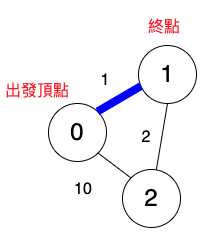
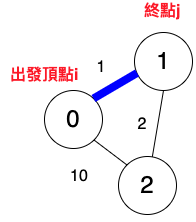
java floyd 解釋修正

diff --git a/_pages/dataStruct/floyd.md b/_pages/dataStruct/floyd.md
@@ -3,37 +3,34 @@ title: Floyd
 date: 2025-08-15
 keywords: java, Floyd
 ---
-比較i → j的距離，與i → k → j的距離，誰比較短？
+比較出發頂點i → 終點j的距離，與出發頂點i → 中間頂點k → 終點j的距離，誰比較短？
 
-k是一個中間頂點，而i → j是一個直達，不經過k這個中間頂點的路徑。
+k是一個中間頂點。
 
-但如果i → k → j更短呢？
-
-下圖中，0 → 2的距離為10，0 → 1 → 2的距離為3，很明顯0 → 1 → 2的距離更短。
+下圖中，出發頂點0 → 終點2的距離為10，出發頂點0 → 中間頂點1 → 終點2的距離為3，很明顯0 → 1 → 2的距離更短。
 
 ![img]({{site.imgurl}}/java_datastruct/floyd1.png)
 
-preVertex表格是記錄路徑的。<br>
 row列是i，column欄是j。<br>
 
-|   |j=0|j=1|j=2|
+|出發\\終點|j=0|j=1|j=2|
 |i=0|0|0|0|
 |i=1|1|1|1|
 |i=2|2|2|2|
 
-i為頂點0，j為頂點1，從頂點0 → 頂點1，i為出發頂點，j為終點。<br>
+出發頂點i為0，終點j為1。<br>
 
 ![img]({{site.imgurl}}/java_datastruct/floyd_path1.png)
 
-頂點1的前一個頂點為頂點0。<br>
+終點j為1的前一個為頂點0。<br>
 
 ![img]({{site.imgurl}}/java_datastruct/floyd_path2.png)<br>
 
-i為0，j為2，就是從頂點0 → 頂點2，i為出發頂點，j為終點。<br>
+出發頂點i為0，終點j為2。<br>
 
 ![img]({{site.imgurl}}/java_datastruct/floyd_path3.png)<br>
 
-頂點2的前一個頂點為頂點0。<br>
+終點j為2的前一個為頂點0。<br>
 
 ![img]({{site.imgurl}}/java_datastruct/floyd_path4.png)<br>
 
@@ -57,6 +54,47 @@ matrix表格是記錄各個頂點間距離，如下:<br>
 其中，對角線為0，代表0 → 0，頂點0到頂點0，是0距離。<br>
 1 → 1，頂點1到頂點1，是0距離。<br>
 2 → 2，頂點2到頂點2，是0距離。<br>
+
+## preVertex表格
+preVertex表格記錄終點j的前一個頂點。<br>
+
+出發頂點i → 終點j，比出發頂點i → 中間頂點k → 終點j，距離更長。<br>
+
+出發頂點i → 中間頂點k → 終點j，距離更短的話，要記錄終點j的前一個頂點是誰。<br>
+
+若是出發頂點i → 終點j距離更短，終點j的前一個為出發頂點。<br>
+
+![img]({{site.imgurl}}/java_datastruct/floyd_path2.png)<br>
+
+若出發頂點i → 中間頂點k → 終點j，距離更短，終點j的前一個頂點為中間頂點k。<br>
+
+![img]({{site.imgurl}}/java_datastruct/floyd_pre1.png)
+
+預設終點j的前一個頂點是出發頂點i。<br>
+
+以下是記錄出發頂點i → 終點j，終點j的前一個頂點是誰。<br>
+
+|出發\\終點|j=0|j=1|j=2|
+|i=0|0|0|0|
+|i=1|1|1|1|
+|i=2|2|2|2|
+
+現在要找中間頂點k → 終點j，終點j的前一個頂點是誰。<br>
+
+所以把表格重新定義如下:<br>
+
+|中間頂點\\終點|j=0|j=1|j=2|
+|k=0|0|0|0|
+|k=1|1|1|1|
+|k=2|2|2|2|
+
+下圖中，中間頂點k為1 → 終點j為2，對映上表(k=1,j=2)，(1,2) = 1，終點j的前一個頂點是1。
+
+![img]({{site.imgurl}}/java_datastruct/floyd_pre1.png)
+
+接著把中間頂點k → 終點j的前一個頂點，存到preVetex表格(i,j)位置，記錄出發頂點i → 終點j，終點j的前一個頂點是1。
+
+推導路徑的時候，就可以pretex(i,j)找到終點j的前一個頂點是誰。
 
 ## 中間頂點k為0
 當出發頂點i是0，當中間頂點k是0，對映j=0,1,2。<br>
@@ -126,32 +164,37 @@ matrix表格是記錄各個頂點間距離，如下:<br>
 
 0→1→2 = 1 + 2 相加距離為3，比0→2的距離10更短，更新matrix表格與preVertex表格。
 
-更新後的表格如下
+#### 更新matrix表格
 
 |matrix|j=0|j=1|j=2|
 |i=0|0|1|<span class="markline">3</span>|
 |i=1|1|0|2|
 |i=2|10|2|0|
 
-preVertex的更新，只在乎「中間頂點」到「終點」的「前一個頂點」，也就是k中間頂點→j終點，先根據下表找出(k=1,j=2)，`[1,2] = 1`，1是前一個頂點。
+#### 更新preVertex表格
+preVertex是記錄每一個終點j的前一個頂點是誰？若是直達的話，預設是出發頂點i。<br>
+
+preVertex的更新，只在乎「中間頂點k」到「終點j」，終點j的「前一個頂點」是誰？根據下表找出(k=1,j=2)，`[1,2] = 1`，1是終點j的前一個頂點。
+
+|中間\\終點|j=0|j=1|j=2|
+|k=0|0|0|0|
+|k=1|1|1|<span class="markline">1</span>|
+|k=2|2|2|2|
+
+接著把出發頂點i → 終點j的「前一個頂點」，更新成k中間頂點 → j終點, 終點j的「前一個頂點」，剛才找到的結果為1，是終點j前一個頂點。<br>
+
+(i=0,j=2)，更新為1，也就是從0 → 2，終點2的前一個頂點是1，而不是原來的0，因為從0→1→2，距離為3，從中間頂點1到終點2，終點2的前一個頂點是1，距離會更短。
 
 |出發\\終點|j=0|j=1|j=2|
-|i=0|0|0|0|
-|i=1|1|1|<span class="markline">1</span>|
-|i=2|2|2|2|
-
-接著把出發頂點i→終點j的「前一個頂點」，更新成k中間頂點→j終點的「前一個頂點」，剛才找到的結果為1是前一個頂點。<br>
-(i=0,j=2)，更新為1，也就是從0→2，2的前一個頂點是1，而不是原來的0，因為從0→1→2，距離為3，從中間頂點1到終點2，前一個頂點為1會更短。
-
-|出發\\終點|j=0|j=1|j=2|
-|i=0|0|0|<span class="markline">1</span>|
+|i=0|0|0|~~0~~ <span class="markline">1</span>|
 |i=1|1|1|1|
 |i=2|2|2|2|
 
-要如何從以上路徑表推導路徑？因為路徑表只記錄是否有中間頂點，若出發頂點i→終點j的路徑表為i，代表沒有中間頂點k，i→j已經是最短路徑。
+要如何從以上路徑表推導路徑？若出發頂點i → 終點j的路徑表為i，代表沒有中間頂點k，i → j已經是最短路徑。
 
-若有中間頂點k，如上表，頂點0→頂點2，前一個頂點是1，而不是頂點0，代表是透過1這個中間頂點，抵達終點2。<br>
-拿到中間頂點1，查「出發頂點i」 = 0 → 「中間頂點k」 =1(i=0,k=1)，若(0,1) == i，也就是出發頂點i==0，同時也是前一個頂點，就找到出發頂點，路徑全找到了。<br>
+若有中間頂點k，如上表，出發頂點i為0 → 終點j為2，終點j為2的前一個頂點是1，而不是頂點0。<br>
+
+拿到中間頂點k，查出發頂點i為0 → 中間頂點k為1(i=0,k=1)，若(0,1) == 出發頂點i，就代表找到出發頂點，停止搜尋路徑。<br>
 
 ||j=0|j=1|j=2|
 |i=0|0|<span class="markline">0</span>|1|
